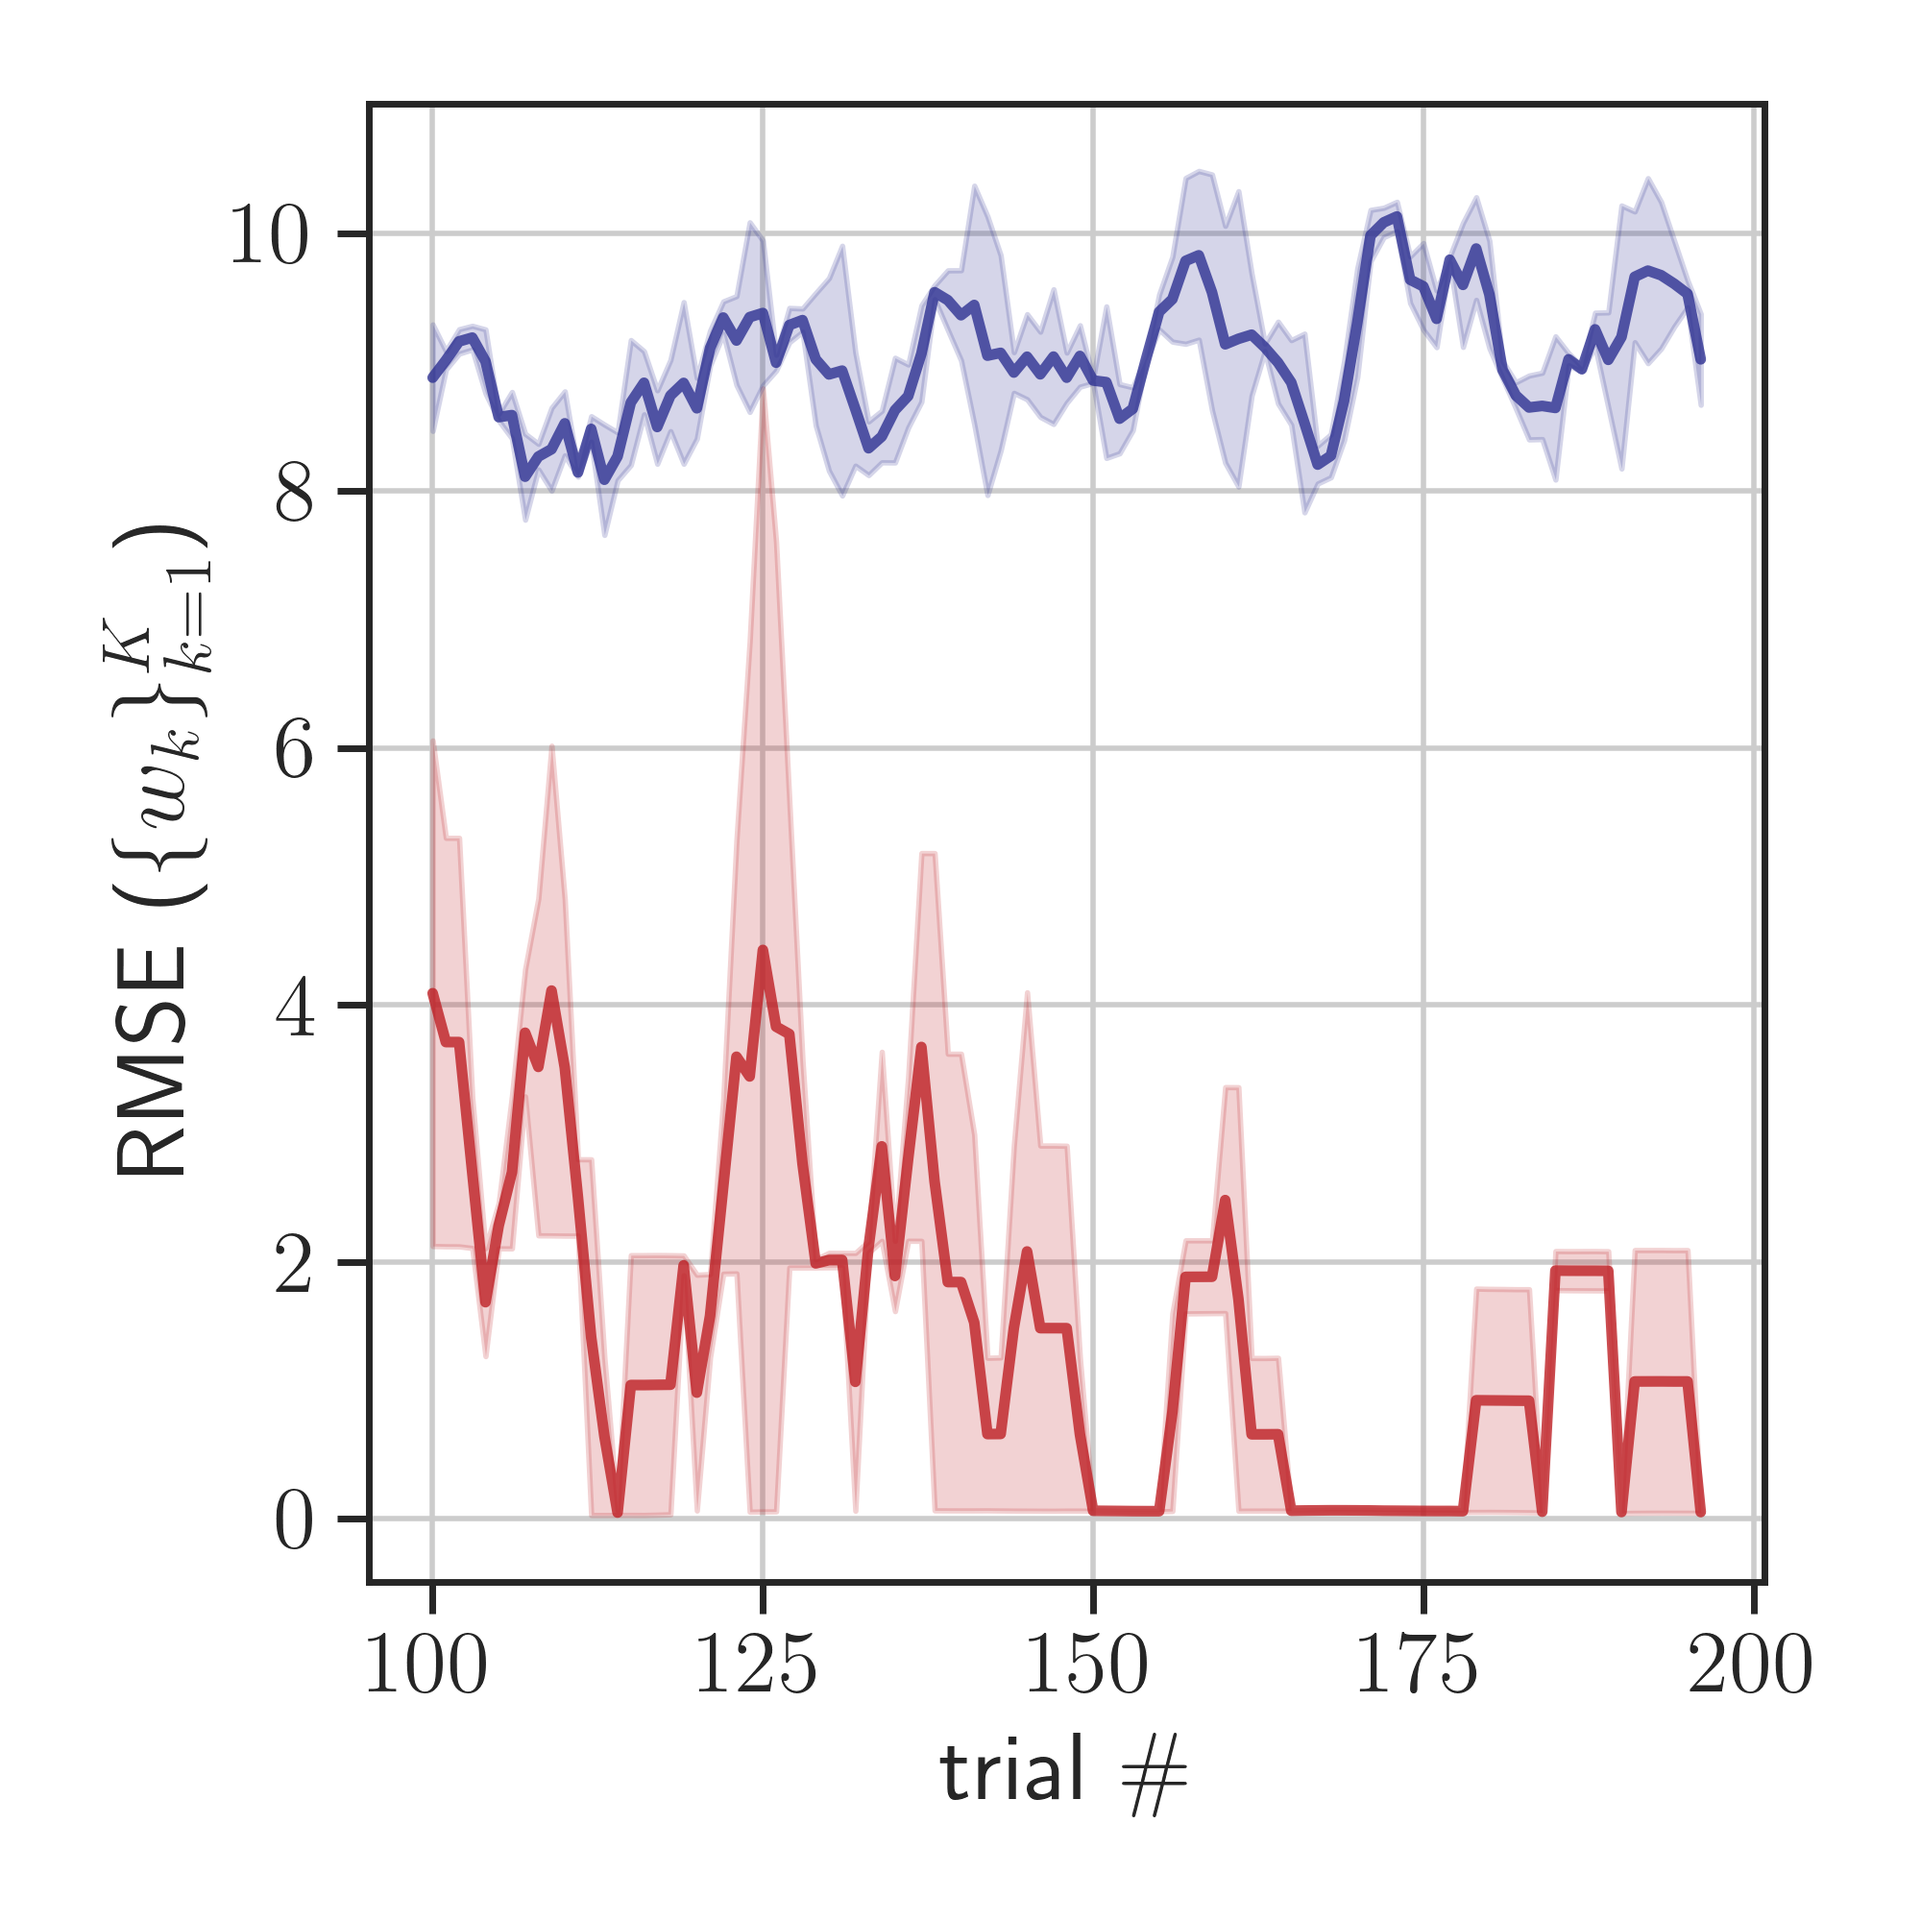
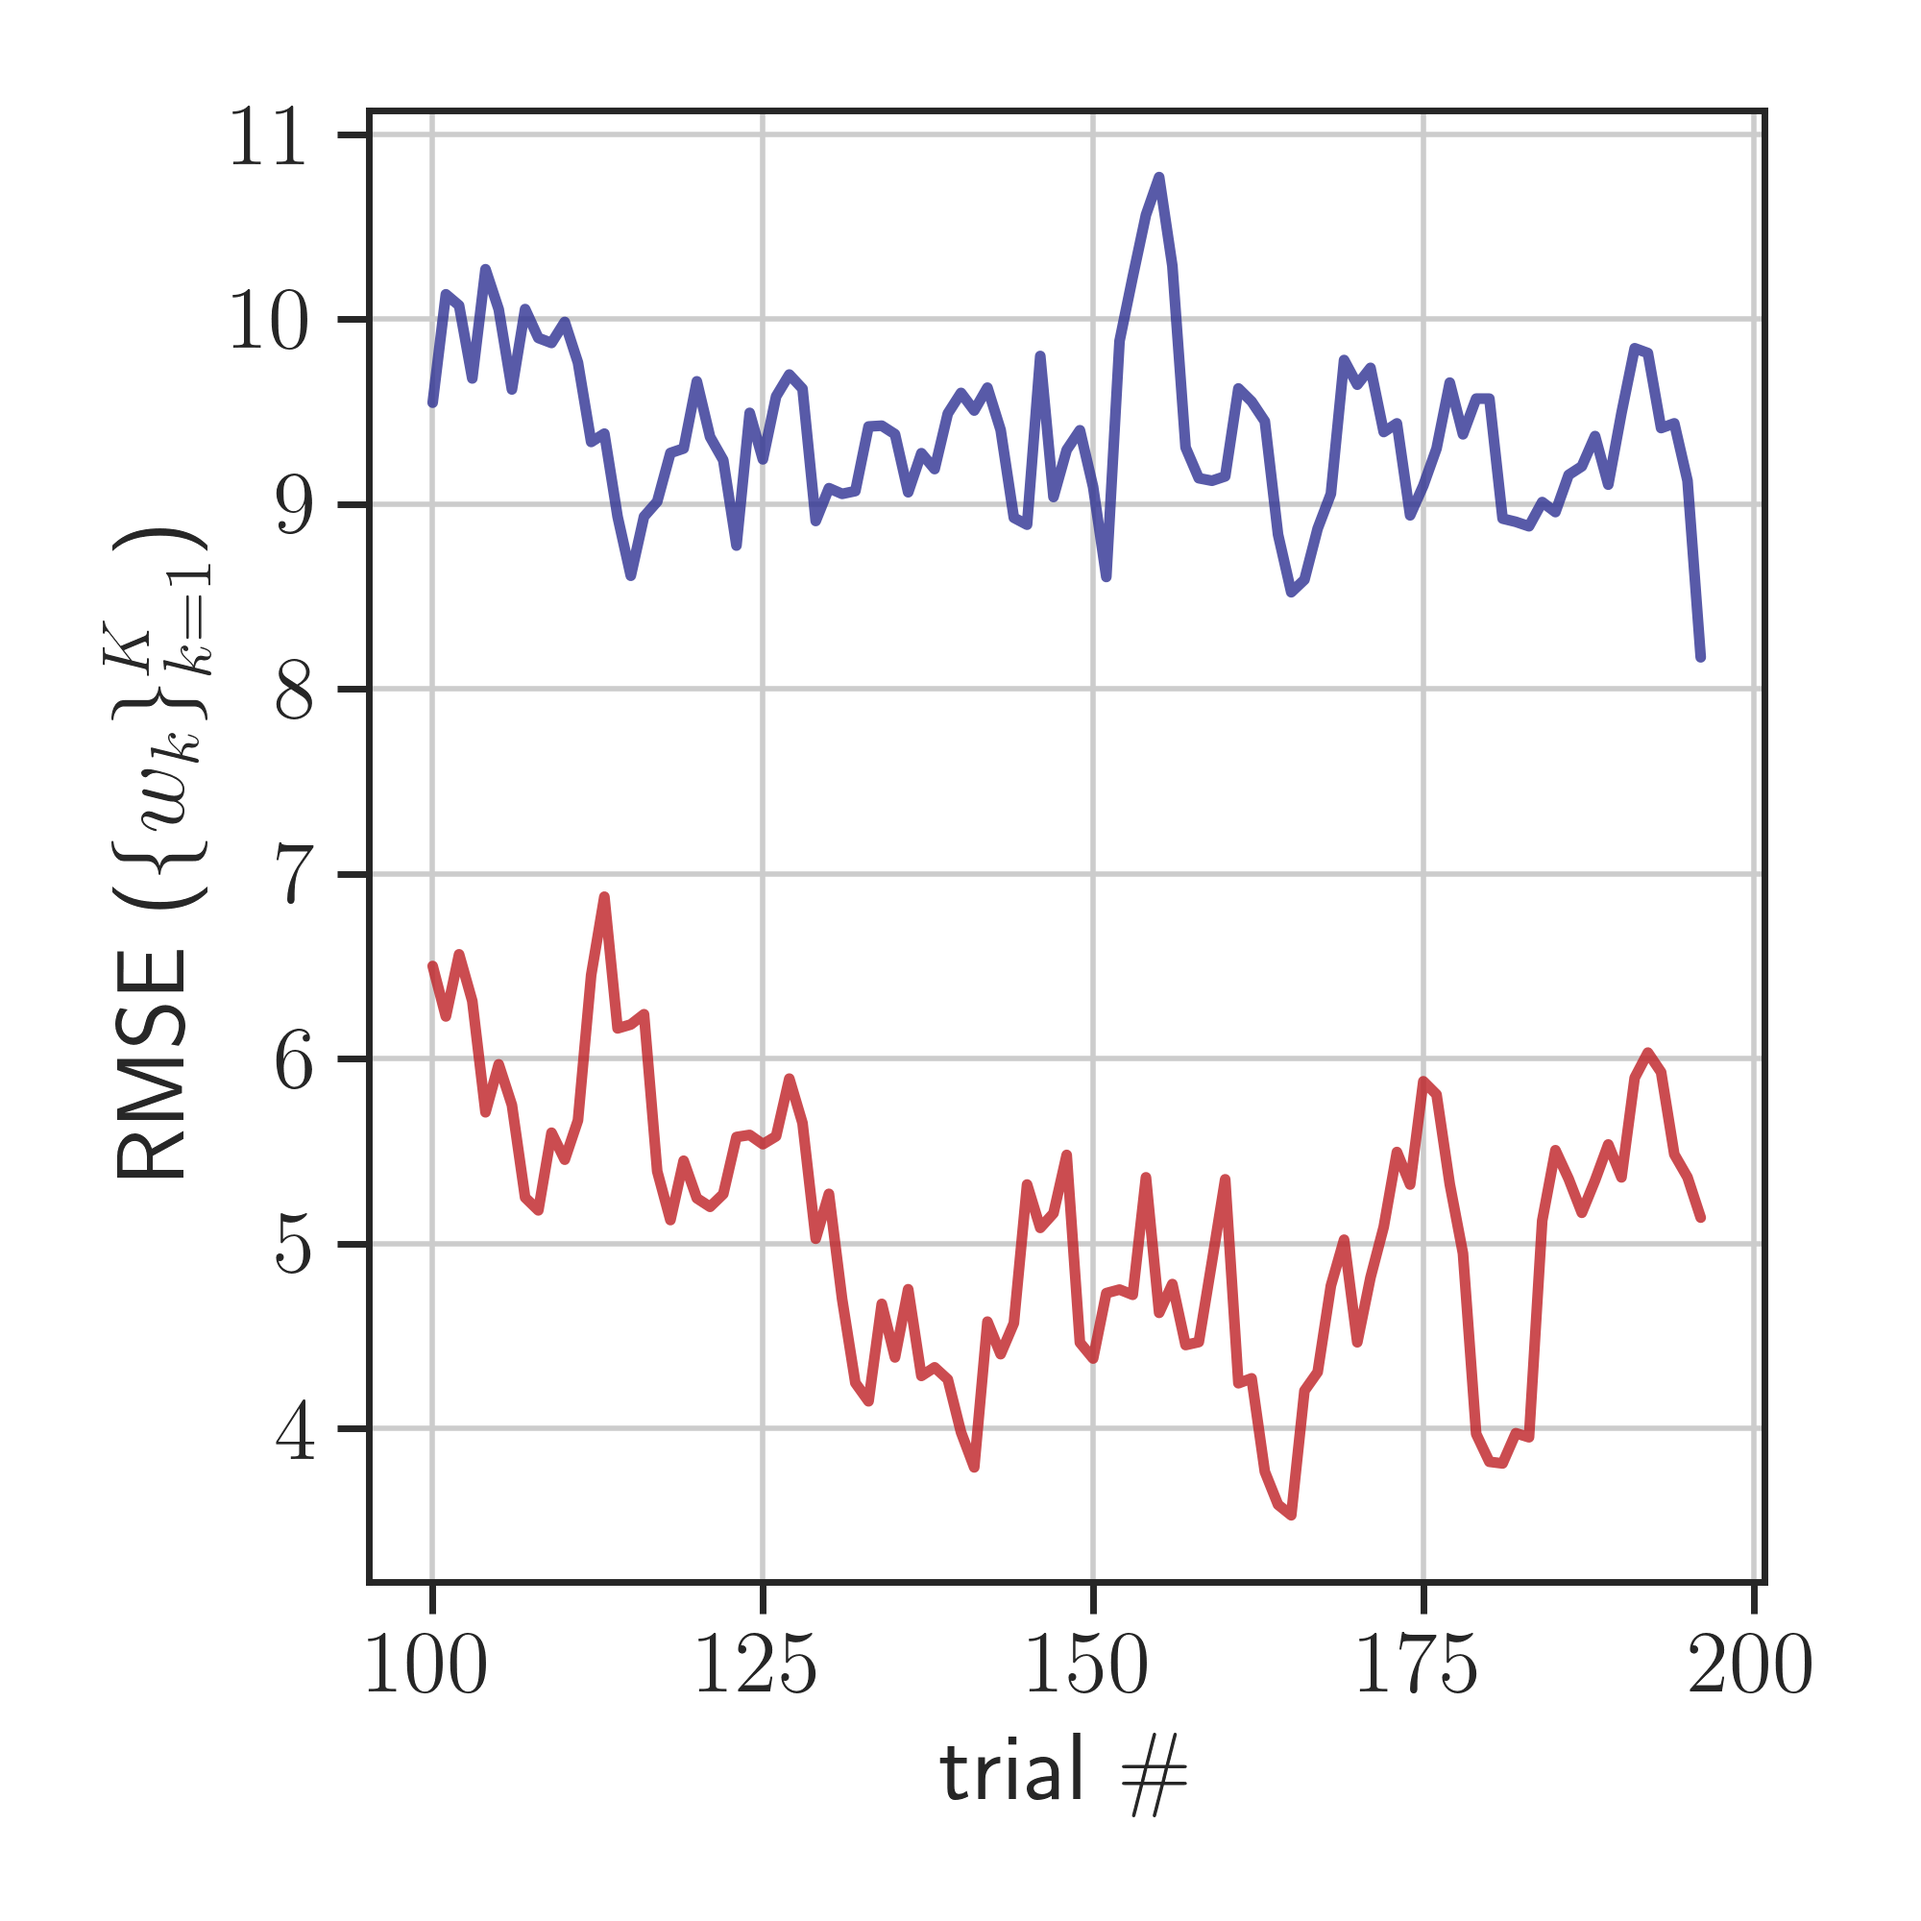
set 4000samples dlfm

diff --git a/mglm/mcmc.py b/mglm/mcmc.py
@@ -3,6 +3,7 @@ import autograd.numpy.random as npr
 import numpy as np 
 import os
 import time
+from scipy.optimize import linear_sum_assignment
 from utils_mglm.mglms import MGLM 
 # from mglm_random import mglm_random
 
@@ -22,6 +23,10 @@ obs_dim = 1  # data dimension
 input_dim = 10 # input dimension
 num_categories = 2 # binary output for now
 sigma = 1.5
+# num_gibbs_burnin = 150
+# num_gibbs_samples = 300
+num_gibbs_burnin = 1000
+num_gibbs_samples = 4000
 
 initial_T = 100
 T = 1000
@@ -99,6 +104,25 @@ def mglm_random(seed, T, initial_inputs, K, true_mglm, test_mglm, input_list, bu
             if np.abs(pis[0]-true_pi[0])>np.abs(pis[0]-true_pi[1]):
                 ws[0], ws[1] = (ws[1]).copy(), (ws[0]).copy()
                 pis[0], pis[1] = (pis[1]).copy(), (pis[0]).copy()
+        else:
+            # Use Hungarian algorithm to find optimal permutation
+            cost_matrix = np.zeros((K, K))
+            for i in range(K):
+                for j in range(K):
+                    pi_cost = np.abs(pis[i] - true_pi[j])
+                    weight_cost = np.linalg.norm(ws[i] - true_ws[j]) / np.linalg.norm(true_ws[j])
+                    cost_matrix[i, j] = pi_cost
+                    # cost_matrix[i, j] = pi_cost + weight_cost
+            
+            row_indices, col_indices = linear_sum_assignment(cost_matrix)
+            
+            pis_permuted = pis.copy()
+            ws_permuted = ws.copy()
+            for old_idx, new_idx in zip(row_indices, col_indices):
+                pis_permuted[new_idx] = pis[old_idx]
+                ws_permuted[new_idx] = ws[old_idx]
+            pis = pis_permuted
+            ws = ws_permuted
 
         # Store the model parameters
         weights_list[t+1] = ws
@@ -147,7 +171,7 @@ test_mglm = MGLM(K=num_states, D=obs_dim, M=input_dim, C=num_categories, prior_s
 # Start timing
 start_time = time.time()
 
-pis_list, weights_list, selected_inputs, posteriorcov = mglm_random(seed, T, initial_inputs, num_states, true_mglm, test_mglm, input_list, burnin = 150, n_iters=300)
+pis_list, weights_list, selected_inputs, posteriorcov = mglm_random(seed, T, initial_inputs, num_states, true_mglm, test_mglm, input_list, burnin = num_gibbs_burnin, n_iters=num_gibbs_samples)
 
 # End timing
 end_time = time.time()
@@ -155,11 +179,11 @@ total_time = end_time - start_time
 
 error_in_weights = np.linalg.norm(weights_list - true_weights, axis=(1,2))
 error_in_pis = np.linalg.norm(pis_list - true_pi0, axis=1)
-np.save(os.path.join(output_dir, "random_atseed"+str(seed) + "_weights.npy"), weights_list)
-np.save(os.path.join(output_dir, "random_atseed"+str(seed) + "_error_in_weights.npy"), error_in_weights)
-np.save(os.path.join(output_dir, "random_atseed"+str(seed) + "_pis.npy"), pis_list)
-np.save(os.path.join(output_dir, "random_atseed"+str(seed) + "_error_in_pis.npy"), error_in_pis)
-np.save(os.path.join(output_dir, "random_atseed"+str(seed) + "_posteriorcov.npy"), posteriorcov)
-np.save(os.path.join(output_dir, "random_atseed"+str(seed) + "_selectedinputs.npy"), selected_inputs)
-np.save(os.path.join(output_dir, "random_atseed"+str(seed) + "_total_time.npy"), total_time)
+np.save(os.path.join(output_dir, "random_atseed"+str(seed) + "_gibbs_" + str(num_gibbs_samples) + "_weights.npy"), weights_list)
+np.save(os.path.join(output_dir, "random_atseed"+str(seed) + "_gibbs_" + str(num_gibbs_samples) + "_error_in_weights.npy"), error_in_weights)
+np.save(os.path.join(output_dir, "random_atseed"+str(seed) + "_gibbs_" + str(num_gibbs_samples) + "_pis.npy"), pis_list)
+np.save(os.path.join(output_dir, "random_atseed"+str(seed) + "_gibbs_" + str(num_gibbs_samples) + "_error_in_pis.npy"), error_in_pis)
+np.save(os.path.join(output_dir, "random_atseed"+str(seed) + "_gibbs_" + str(num_gibbs_samples) + "_posteriorcov.npy"), posteriorcov)
+np.save(os.path.join(output_dir, "random_atseed"+str(seed) + "_gibbs_" + str(num_gibbs_samples) + "_selectedinputs.npy"), selected_inputs)
+np.save(os.path.join(output_dir, "random_atseed"+str(seed) + "_gibbs_" + str(num_gibbs_samples) + "_total_time.npy"), total_time)
 print(f"Total time taken for MGLM random sampling: {total_time:.2f} seconds")

diff --git a/mglm/plot_err.py b/mglm/plot_err.py
@@ -33,6 +33,7 @@ init_trials = 100
 num_trials = 1001 - 4 # consider convolve
 
 num_repeats = 1
+num_gibbs_samples = 300
 
 # * * * * * * groundtruth MGLM for generation * * * * * *
 true_pi0 = np.array([0.6, 0.4])
@@ -48,7 +49,7 @@ def plot_rmse_w():
         error_in_weights_dlfm = np.convolve(error_in_weights_dlfm, np.ones(5)/5, mode='valid')
         error += error_in_weights_dlfm.tolist()
 
-        error_in_weights_random = np.load(os.path.join(npy_dir, "mcmc", "1001", f"random_atseed{seed}_error_in_weights.npy"))
+        error_in_weights_random = np.load(os.path.join(npy_dir, "mcmc", "1001", f"random_atseed{seed}_gibbs_{num_gibbs_samples}_error_in_weights.npy"))
         error_in_weights_random = np.convolve(error_in_weights_random, np.ones(5)/5, mode='valid')
         error += error_in_weights_random.tolist()
 
@@ -79,7 +80,7 @@ def plot_rmse_pi():
         error_in_pis_dlfm = np.convolve(error_in_pis_dlfm, np.ones(5)/5, mode='valid')
         error += error_in_pis_dlfm.tolist()
 
-        error_in_pis_random = np.load(os.path.join(npy_dir, "mcmc", "1001", f"random_atseed{seed}_error_in_pis.npy"))
+        error_in_pis_random = np.load(os.path.join(npy_dir, "mcmc", "1001", f"random_atseed{seed}_gibbs_{num_gibbs_samples}_error_in_pis.npy"))
         error_in_pis_random = np.convolve(error_in_pis_random, np.ones(5)/5, mode='valid')
         error += error_in_pis_random.tolist()
 
@@ -104,7 +105,7 @@ def plot_rmse_pi():
 def plot_input_selection():
     seed = 0
     
-    selected_inputs_mcmc = np.load(os.path.join(npy_dir, "mcmc", "1001", f"random_atseed{seed}_selectedinputs.npy"))
+    selected_inputs_mcmc = np.load(os.path.join(npy_dir, "mcmc", "1001", f"random_atseed{seed}_gibbs_{num_gibbs_samples}_selectedinputs.npy"))
     selected_inputs_dlfm = np.load(os.path.join(npy_dir, "dlfm", "1001", f"dlfm_selectedinputs_atseed{seed}.npy"))
     selected_inputs_mcmc = np.array(selected_inputs_mcmc)[:, 0]  # First 1000 selected inputs
     selected_inputs_dlfm = selected_inputs_dlfm[init_trials:, 0]  # Skip initial trials, get first column
@@ -149,21 +150,24 @@ def print_total_times():
     print("=" * 50)
     
     
-    for seed in range(num_repeats):
-        print(f"\nSeed {seed}:")
-        mcmc_time = np.load(os.path.join(npy_dir, "mcmc", "1001", f"random_atseed{seed}_total_time.npy"))
-        print(f"  MCMC: {mcmc_time:.2f} seconds ({mcmc_time/60:.2f} minutes)")
-        dlfm_time = np.load(os.path.join(npy_dir, "dlfm", "1001", f"dlfm_total_time_atseed{seed}.npy"))
-        print(f"  DLFM: {dlfm_time:.2f} seconds ({dlfm_time/60:.2f} minutes)")
+    # for seed in range(num_repeats):
+    #     print(f"\nSeed {seed}:")
+    #     mcmc_time = np.load(os.path.join(npy_dir, "mcmc", "1001", f"random_atseed{seed}_gibbs_{num_gibbs_samples}_total_time.npy"))
+    #     print(f"  MCMC: {mcmc_time:.2f} seconds ({mcmc_time/60:.2f} minutes)")
+    #     dlfm_time = np.load(os.path.join(npy_dir, "dlfm", "1001", f"dlfm_total_time_atseed{seed}.npy"))
+    #     print(f"  DLFM: {dlfm_time:.2f} seconds ({dlfm_time/60:.2f} minutes)")
     
     mcmc_times = []
     dlfm_times = []
     
     for seed in range(num_repeats):
-        mcmc_time = np.load(os.path.join(npy_dir, "mcmc", "1001", f"random_atseed{seed}_total_time.npy"))
+        print(f"\nSeed {seed}:")
+        mcmc_time = np.load(os.path.join(npy_dir, "mcmc", "1001", f"random_atseed{seed}_gibbs_{num_gibbs_samples}_total_time.npy"))
         mcmc_times.append(mcmc_time)
+        print(f"  MCMC: {mcmc_time:.2f} seconds ({mcmc_time/60:.2f} minutes)")
         dlfm_time = np.load(os.path.join(npy_dir, "dlfm", "1001", f"dlfm_total_time_atseed{seed}.npy"))
         dlfm_times.append(dlfm_time)
+        print(f"  DLFM: {dlfm_time:.2f} seconds ({dlfm_time/60:.2f} minutes)")
     
     avg_mcmc = np.mean(mcmc_times)
     avg_dlfm = np.mean(dlfm_times)

diff --git a/iohmm/plot_err.py b/iohmm/plot_err.py
@@ -151,21 +151,24 @@ def plot_input_selection():
 
 
 def print_total_times():
-    for seed in range(num_repeats):
-        print(f"\nSeed {seed}:")
-        mcmc_time = np.load(os.path.join(npy_dir, "mcmc", "1001", f"random_gibbs_PG_total_time_atseed{seed}_gibbs_{num_gibbs_samples}.npy"))
-        print(f"  MCMC: {mcmc_time:.2f} seconds ({mcmc_time/60:.2f} minutes)")
-        dlfm_time = np.load(os.path.join(npy_dir, "dlfm", "1001", f"dlfm_total_time_atseed{seed}.npy"))
-        print(f"  DLFM: {dlfm_time:.2f} seconds ({dlfm_time/60:.2f} minutes)")
+    # for seed in range(num_repeats):
+    #     print(f"\nSeed {seed}:")
+    #     mcmc_time = np.load(os.path.join(npy_dir, "mcmc", "1001", f"random_gibbs_PG_total_time_atseed{seed}_gibbs_{num_gibbs_samples}.npy"))
+    #     print(f"  MCMC: {mcmc_time:.2f} seconds ({mcmc_time/60:.2f} minutes)")
+    #     dlfm_time = np.load(os.path.join(npy_dir, "dlfm", "1001", f"dlfm_total_time_atseed{seed}.npy"))
+    #     print(f"  DLFM: {dlfm_time:.2f} seconds ({dlfm_time/60:.2f} minutes)")
     
     mcmc_times = []
     dlfm_times = []
     
     for seed in range(num_repeats):
+        print(f"\nSeed {seed}:")
         mcmc_time = np.load(os.path.join(npy_dir, "mcmc", "1001", f"random_gibbs_PG_total_time_atseed{seed}_gibbs_{num_gibbs_samples}.npy"))
         mcmc_times.append(mcmc_time)
+        print(f"  MCMC: {mcmc_time:.2f} seconds ({mcmc_time/60:.2f} minutes)")
         dlfm_time = np.load(os.path.join(npy_dir, "dlfm", "1001", f"dlfm_total_time_atseed{seed}.npy"))
         dlfm_times.append(dlfm_time)
+        print(f"  DLFM: {dlfm_time:.2f} seconds ({dlfm_time/60:.2f} minutes)")
     
     avg_mcmc = np.mean(mcmc_times)
     avg_dlfm = np.mean(dlfm_times)
